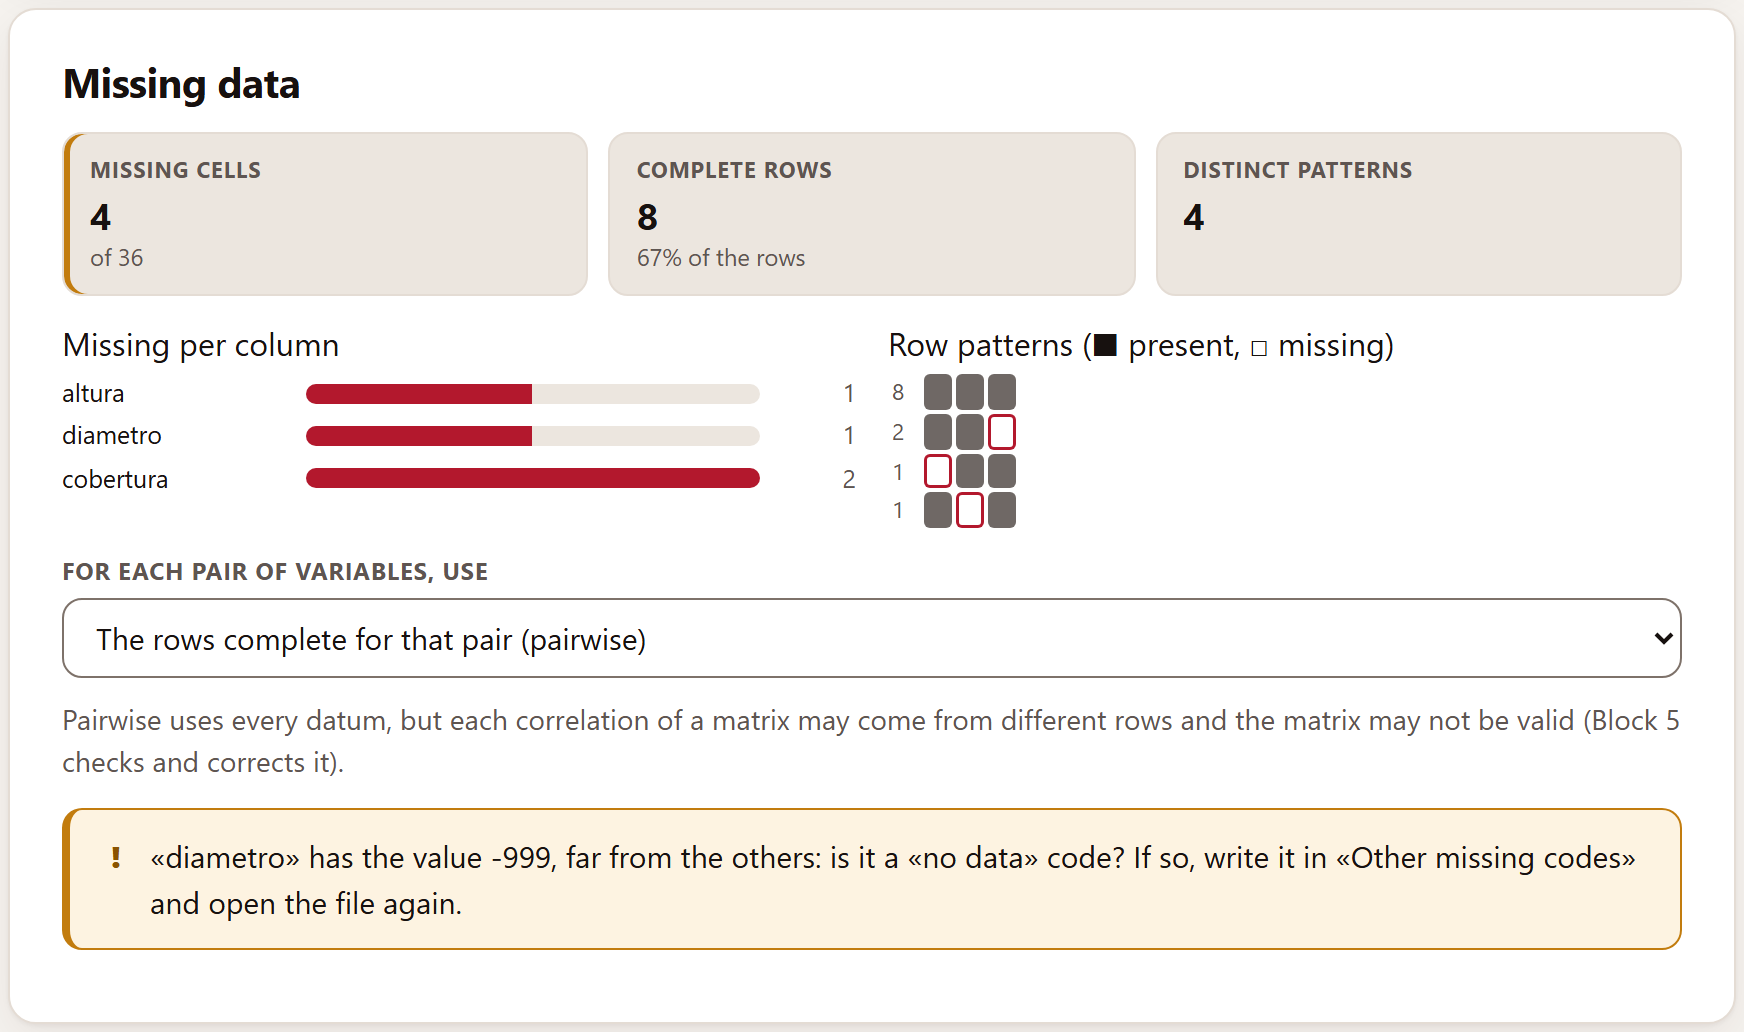
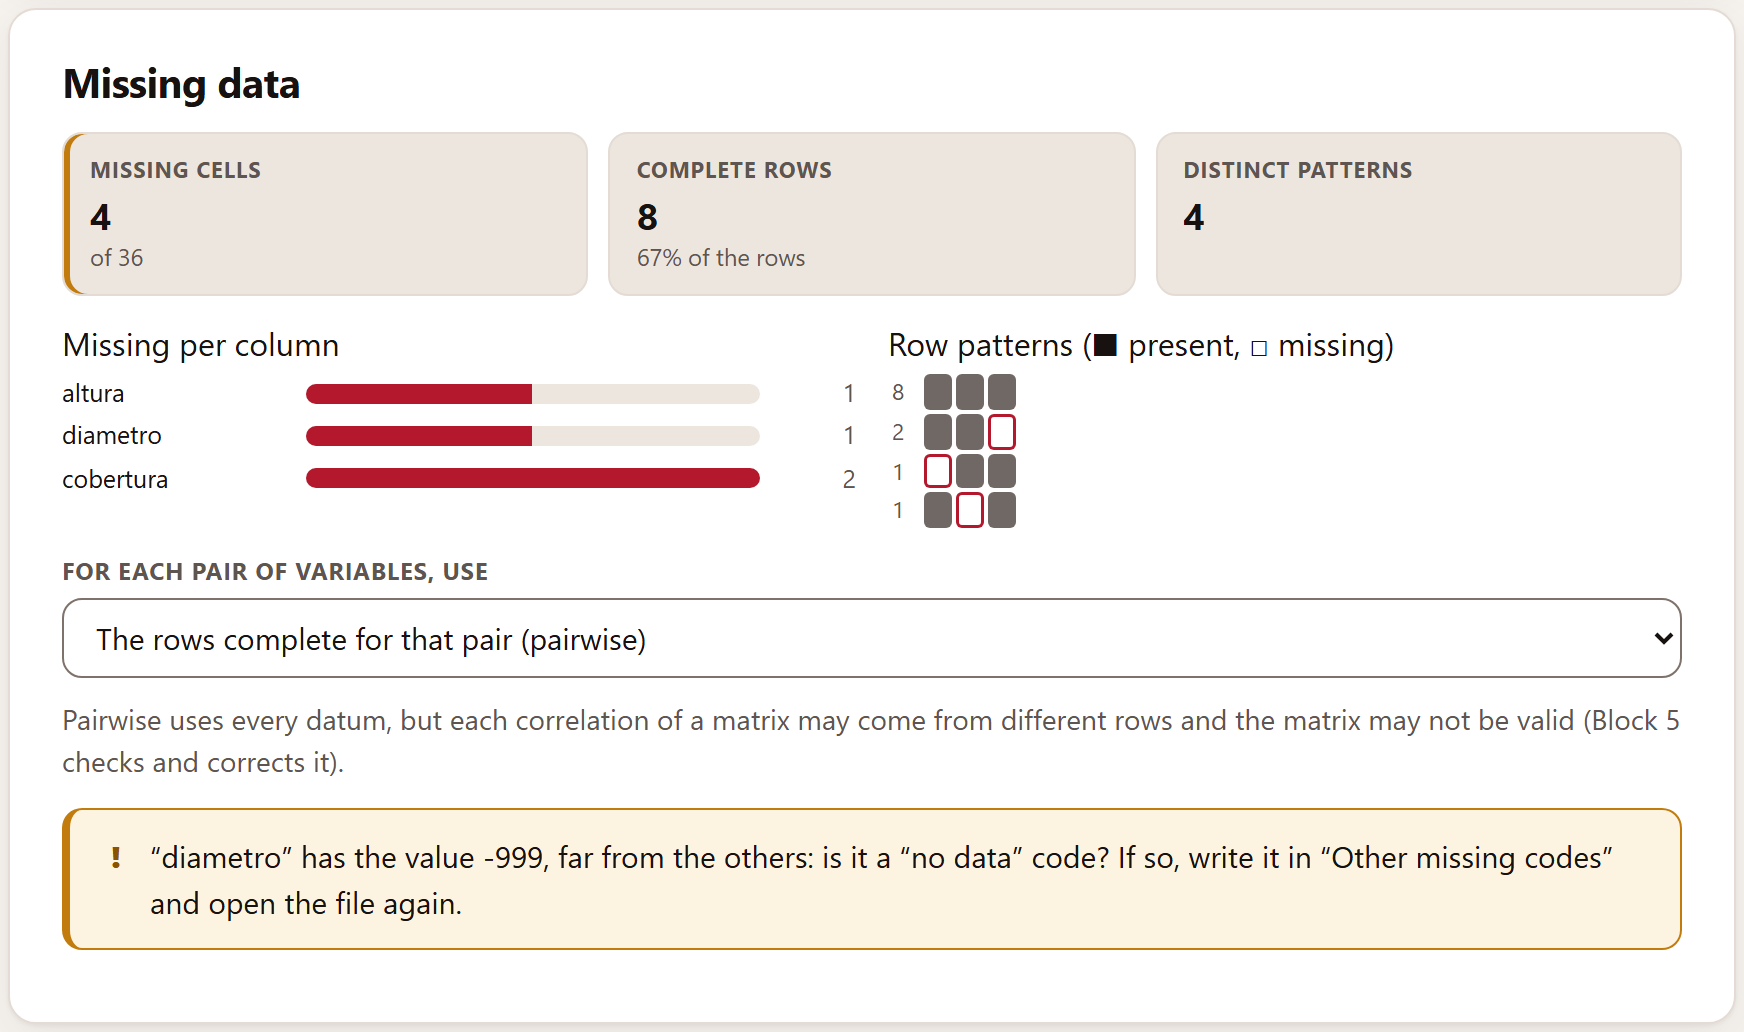
Manual en inglés, capítulos 2 a 5: textos y capturas al día con la interfaz inglesa revisada

Changed region(s): [[0.0929, 0.8062, 0.9289, 0.8682]]

diff --git a/manual/en/02-bloque2.html b/manual/en/02-bloque2.html
@@ -57,7 +57,7 @@
 
   <!-- 2.3 -->
   <h2 id="s2-3"><span class="num">2.3</span>Your data at a glance</h2>
-  <p>When you open some data, a message says what was read—“Read «pasted data»: 12 rows and 4 columns, separated by tab, with a decimal point.”—and the <span class="ui">Your data</span> card shows five figures and the table.</p>
+  <p>When you open some data, a message says what was read—<i>Read “pasted data”: 12 rows and 4 columns, separated by tab, with a decimal point.</i>—and the <span class="ui">Your data</span> card shows five figures and the table.</p>
   <figure class="w80">
     <div class="marco"><img src="../img/en/b2-datos.png" alt="The Your data card with Switzerland, 1888"></div>
     <figcaption><b>Figure 2.3.</b> Switzerland, 1888: 47 rows, 7 columns of which 6 are in use (the district is an identifier), all complete. Under the name of each column goes its kind.</figcaption>
@@ -139,13 +139,13 @@
     <thead><tr><th style="width:2.2in">Transformation</th><th>What for</th></tr></thead>
     <tbody>
       <tr><td>Ranks (average for ties)</td><td>Working with the order; Pearson on the ranks is Spearman</td></tr>
-      <tr><td>Standardize (<i>z</i>) · Centre on the mean</td><td>Putting the variables on the same scale; they do not change any correlation</td></tr>
+      <tr><td>Standardize (<i>z</i>) · Center on the mean</td><td>Putting the variables on the same scale; they do not change any correlation</td></tr>
       <tr><td>Natural logarithm · Base-10 logarithm · log(<i>x</i> + 1)</td><td>Multiplicative relations and long right tails; the last one allows zeros</td></tr>
       <tr><td>Square root · Inverse 1/<i>x</i></td><td>Counts and rates</td></tr>
       <tr><td>Box–Cox (estimated λ)</td><td>The power that brings the variable closest to the normal (Box and Cox, 1964)</td></tr>
       <tr><td>Normal scores</td><td>The ranks turned into normal quantiles: the basis of the Gaussian rank correlation</td></tr>
       <tr><td>Reverse the scale</td><td>Making “more” mean the same thing on two scales</td></tr>
-      <tr><td>Centred log-ratio</td><td>The parts of a whole (compositional data), before correlating them</td></tr>
+      <tr><td>Centered log-ratio</td><td>The parts of a whole (compositional data), before correlating them</td></tr>
     </tbody>
   </table>
   <p class="small">The menu only offers the transformations that make sense for the chosen column: the logarithm, for example, does not appear if there are zeros or negative values.</p>

diff --git a/manual/en/03-bloque3.html b/manual/en/03-bloque3.html
@@ -35,7 +35,7 @@
   <h2 id="s3-1"><span class="num">3.1</span>What to explore</h2>
   <p class="lead">The block works with the numeric columns—continuous and ordinal—that have the variable role in Block 2. There is nothing to press to compute: every change redoes all the calculations.</p>
   <p>The variables appear as buttons. When you open some data the first eight are selected; a click removes or adds one, at least one always stays selected and up to ten fit at once (for more, use the matrix of Block 5). Ordinal variables carry the mark <span class="ui">ord.</span>, because they change the recommendation for their pairs.</p>
-  <p><span class="ui">Colour by group</span> offers the nominal or binary columns with two to eight categories; if one of them has the group role, it is selected automatically. The group colors the points of every cloud, adds <i>r</i> within each group and turns on the search for Simpson’s paradox. <span class="ui">Line in each cloud</span> decides what is drawn in the clouds of the matrix: the <span class="ui">LOWESS smoother</span> (the default), the <span class="ui">Least-squares line</span> or <span class="ui">None</span>.</p>
+  <p><span class="ui">Color by group</span> offers the nominal or binary columns with two to eight categories; if one of them has the group role, it is selected automatically. The group colors the points of every cloud, adds <i>r</i> within each group and turns on the search for Simpson’s paradox. <span class="ui">Line in each cloud</span> decides what is drawn in the clouds of the matrix: the <span class="ui">LOWESS smoother</span> (the default), the <span class="ui">Least-squares line</span> or <span class="ui">None</span>.</p>
 
   <figure>
     <div class="marco"><img src="../img/en/b3-que.png" alt="The What to explore card with the four measurements of the irises, the species as group and the LOWESS smoother"></div>
